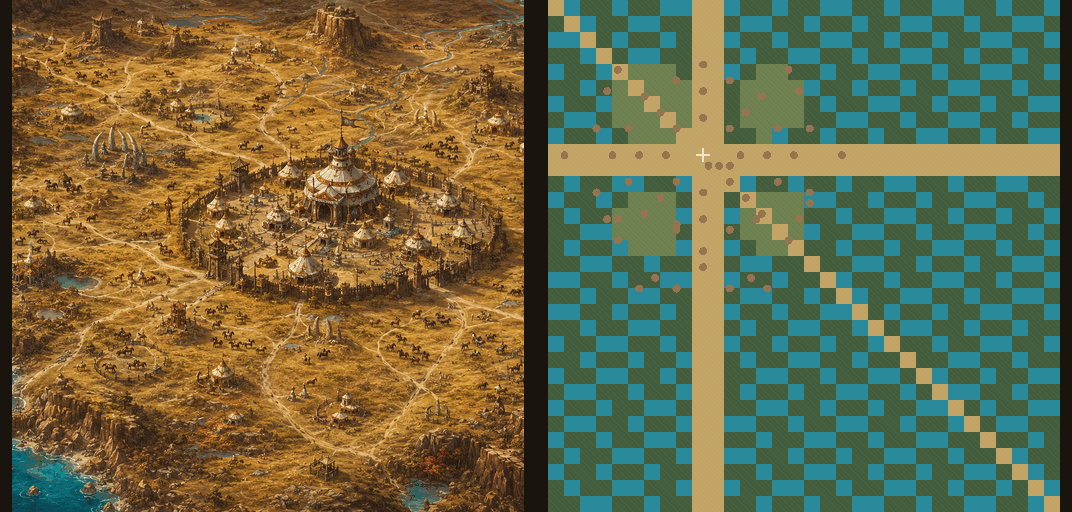
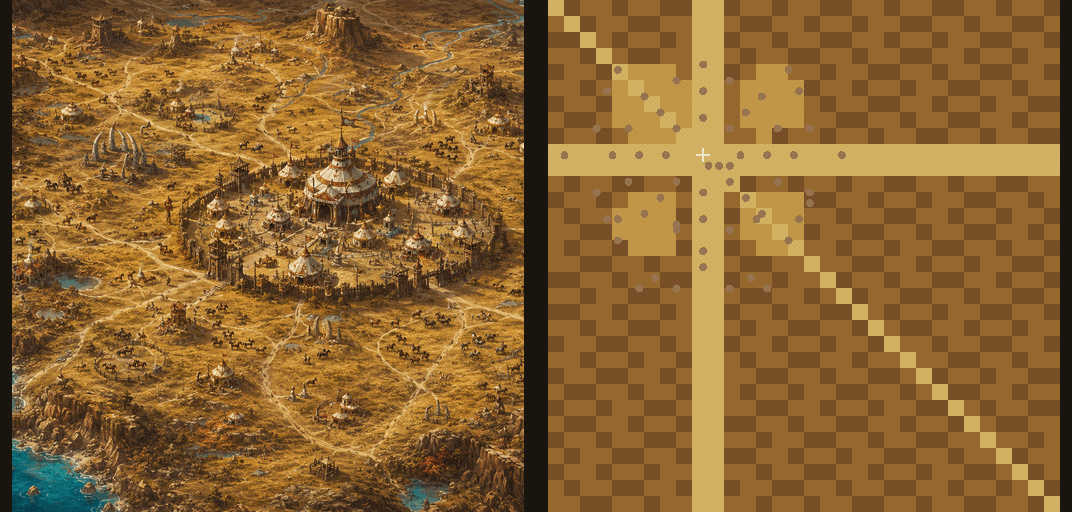
Author the Amberwood regional vertical slice

diff --git a/eloria-assets/tools/generate_nymara_complete.py b/eloria-assets/tools/generate_nymara_complete.py
@@ -272,6 +272,21 @@ def sunmane_height(x,y):
  return max(8,min(24,11+mesa+rolling+
                    region_noise('sunmane_steppe',x//8,y//8)//9))
 
+def amberwood_tile(x,y):
+ cx=cy=58/6
+ estate=math.hypot((x-cx)*1.1,(y-cy)*.9)<3.7
+ road=abs(x-cx)<.65 or abs(y-cy)<.65 or abs((x-cx)+(y-cy))<.58
+ old_growth=((x*7+y*5)%13)<6 or min(x,y,31-x,31-y)<4
+ return 2 if road else 0 if estate else 3 if old_growth else 1
+
+def amberwood_height(x,y):
+ if abs(x-58)<=4 or abs(y-58)<=3: return 11
+ edge=min(x,y,191-x,191-y)
+ wooded_rise=max(0,(38-edge)//8)
+ ridge=max(0,(y-110)//20)
+ return max(8,min(25,11+wooded_rise+ridge+
+                   region_noise('amberwood',x//7,y//7)//9))
+
 def four_gates_terrain_pixel(kind):
  def pixel(x,y):
   grain=((x*17+y*29+(x^y)*5)%23)-11
@@ -489,6 +504,27 @@ def sunmane_placements():
   p.append(("3dobjects/nymara/sunmane_animal_pen.e3d",x,y,0,r))
  for j,(x,y) in enumerate(((18,48),(98,48),(18,72),(98,72),(34,108),(82,108))):
   p.append(("3dobjects/nymara/sunmane_burial_mound.e3d",x,y,0,j*60))
+ return p
+
+def amberwood_placements():
+ p=[]
+ p.append(("3dobjects/nymara/amberwood_estate.e3d",58,42,0,180))
+ for j,(x,y) in enumerate(((34,34),(82,34),(28,64),(88,64),(38,94),(78,94))):
+  p.append(("3dobjects/nymara/amberwood_hunting_lodge.e3d",x,y,0,j*60))
+ for j,(x,y) in enumerate(((24,24),(92,24),(20,52),(96,52),(24,84),(92,84),
+                            (34,108),(82,108))):
+  p.append(("3dobjects/nymara/amberwood_hollow_tree.e3d",x,y,0,j*43))
+ for j,(x,y,r) in enumerate(((58,30,90),(30,58,0),(86,58,0),(58,88,90))):
+  p.append(("3dobjects/nymara/amberwood_old_bridge.e3d",x,y,0,r))
+ for j,(x,y) in enumerate(((30,30),(46,26),(70,26),(86,30),(22,42),(94,42),
+                            (22,74),(94,74),(30,98),(46,106),(70,106),(86,98),
+                            (38,50),(78,50),(38,78),(78,78))):
+  p.append(("3dobjects/nymara/amberwood_tree.e3d",x,y,0,j*29))
+ for j,(x,y,r) in enumerate(((42,38,45),(74,38,315),(34,72,90),(82,72,270),
+                              (46,96,30),(70,96,330))):
+  p.append(("3dobjects/nymara/amberwood_ruin_arch.e3d",x,y,0,r))
+ for j,(x,y) in enumerate(((48,48),(68,48),(48,68),(68,68))):
+  p.append(("3dobjects/nymara/amberwood_garden_fountain.e3d",x,y,0,j*90))
  return p
 
 def drowned_crown_placements():
@@ -808,6 +844,8 @@ def generate_maps(root):
    placements=amethyst_placements()
   elif name == 'sunmane_steppe':
    placements=sunmane_placements()
+  elif name == 'amberwood':
+   placements=amberwood_placements()
   elif name in REGIONS:
    authored=profile['objects']
    rings=((30,30),(58,28),(86,30),(28,58),(88,58),(30,86),(58,88),(86,86),
@@ -879,6 +917,9 @@ def generate_maps(root):
   elif name=='sunmane_steppe':
    lights += [(x,y,3.2,1.00,.58,.24) for x,y in
               ((48,48),(68,48),(48,68),(68,68),(58,34),(82,58),(58,82),(34,58))]
+  elif name=='amberwood':
+   lights += [(x,y,3.0,.96,.42,.16) for x,y in
+              ((58,42),(48,48),(68,48),(48,68),(68,68),(34,34),(82,34),(58,88))]
   elif name=='drowned_crown':
    lights += [(x,y,2.7,.24,.70,.78) for x,y in
               ((34,34),(58,34),(82,34),(34,58),(82,58),(34,82),(58,82),(82,82))]
@@ -900,9 +941,9 @@ def generate_maps(root):
   elif name=='manymouth_flooded_labyrinth':
    lights += [(x,y,2.6,.24,.58,.48) for x,y in
               ((34,34),(58,34),(82,34),(34,58),(82,58),(34,82),(58,82),(82,82))]
-  tile_function=(four_gates_tile if name=='four_gates' else mirrorhold_tile if name=='mirrorhold' else crownwater_tile if name=='crownwater' else whitehorn_tile if name=='whitehorn_range' else amethyst_tile if name=='amethyst_barrens' else sunmane_tile if name=='sunmane_steppe'
+  tile_function=(four_gates_tile if name=='four_gates' else mirrorhold_tile if name=='mirrorhold' else crownwater_tile if name=='crownwater' else whitehorn_tile if name=='whitehorn_range' else amethyst_tile if name=='amethyst_barrens' else sunmane_tile if name=='sunmane_steppe' else amberwood_tile if name=='amberwood'
                  else lambda x,y,p=profile,n=name:region_tile(p,n,x,y))
-  height_function=(four_gates_height if name=='four_gates' else mirrorhold_height if name=='mirrorhold' else crownwater_height if name=='crownwater' else whitehorn_height if name=='whitehorn_range' else amethyst_height if name=='amethyst_barrens' else sunmane_height if name=='sunmane_steppe'
+  height_function=(four_gates_height if name=='four_gates' else mirrorhold_height if name=='mirrorhold' else crownwater_height if name=='crownwater' else whitehorn_height if name=='whitehorn_range' else amethyst_height if name=='amethyst_barrens' else sunmane_height if name=='sunmane_steppe' else amberwood_height if name=='amberwood'
                    else lambda x,y,p=profile,n=name:region_height(p,n,x,y))
   make_map(root/f"maps/nymara/{name}.elm",width=32,height=32,placements=placements,
    ambient=profile['ambient'],lights=lights,

diff --git a/eloria-assets/tools/validate_generated_assets.py b/eloria-assets/tools/validate_generated_assets.py
@@ -220,6 +220,27 @@ def validate_maps(root: Path) -> None:
                 raise ValueError("Sunmane Steppe lacks authored scenery or lighting")
             if set(sunmane_tiles) != {0, 1, 2, 3} or len(set(sunmane_heights)) < 8:
                 raise ValueError("Sunmane Steppe lacks camps, roads, grassland, or relief")
+        if path.as_posix().endswith("maps/nymara/amberwood.elm"):
+            amber_tiles = data[tile_offset:height_offset]
+            amber_heights = data[height_offset:height_offset + width * height * 36]
+            required = {
+                "3dobjects/nymara/amberwood_estate.e3d": 1,
+                "3dobjects/nymara/amberwood_hunting_lodge.e3d": 6,
+                "3dobjects/nymara/amberwood_hollow_tree.e3d": 8,
+                "3dobjects/nymara/amberwood_old_bridge.e3d": 4,
+                "3dobjects/nymara/amberwood_tree.e3d": 16,
+                "3dobjects/nymara/amberwood_ruin_arch.e3d": 6,
+                "3dobjects/nymara/amberwood_garden_fountain.e3d": 4,
+            }
+            for landmark, minimum in required.items():
+                if sum(name == landmark for name, *_ in object_records) < minimum:
+                    raise ValueError(f"Amberwood is missing {landmark}")
+            if any(math.hypot(x-58, y-58) < 3.0 for _, x, y, _ in object_records):
+                raise ValueError("Amberwood arrival is obstructed")
+            if obj3_count < 55 or light_count < 12:
+                raise ValueError("Amberwood lacks authored scenery or lighting")
+            if set(amber_tiles) != {0, 1, 2, 3} or len(set(amber_heights)) < 8:
+                raise ValueError("Amberwood lacks estate, roads, old growth, or relief")
         if path.as_posix().endswith("maps/nymara/drowned_crown.elm"):
             required = {
                 "3dobjects/nymara/interiors/crownwater_drowned_floor.e3d": 12,

diff --git a/eloria-assets/tools/render_map_qa.py b/eloria-assets/tools/render_map_qa.py
@@ -20,6 +20,21 @@ COLORS = {
     7: (38, 128, 149),
 }
 
+REGIONAL_COLORS = {
+    "amethyst_barrens": {
+        0: (103, 73, 126), 1: (114, 91, 65),
+        2: (182, 132, 194), 3: (139, 91, 164),
+    },
+    "sunmane_steppe": {
+        0: (193, 151, 72), 1: (150, 105, 48),
+        2: (211, 177, 99), 3: (120, 79, 38),
+    },
+    "amberwood": {
+        0: (151, 91, 39), 1: (115, 71, 34),
+        2: (184, 119, 55), 3: (65, 91, 55),
+    },
+}
+
 
 def main() -> None:
     parser = argparse.ArgumentParser()
@@ -38,11 +53,12 @@ def main() -> None:
         name = struct.unpack_from("<80s", data, offset)[0].split(b"\0", 1)[0].decode()
         x, y = struct.unpack_from("<2f", data, offset + 80)
         objects.append((name, x / (width * 6) * 512, y / (height * 6) * 512))
+    colors = REGIONAL_COLORS.get(args.map.stem, COLORS)
 
     def pixel(x: int, y: int):
         tile_x = min(width - 1, x * width // 512)
         tile_y = min(height - 1, y * height // 512)
-        base = COLORS.get(tiles[tile_y * width + tile_x], (125, 70, 125))
+        base = colors.get(tiles[tile_y * width + tile_x], (125, 70, 125))
         grain = ((x * 7 + y * 11) % 9) - 4
         color = tuple(max(0, min(255, channel + grain)) for channel in base)
         for name, object_x, object_y in objects:

diff --git a/eloria-assets/qa/regions/amberwood/README.md b/eloria-assets/qa/regions/amberwood/README.md
@@ -1,0 +1,23 @@
+# Amberwood regional QA
+
+Amberwood now follows the concept's dense autumn estate forest. The noble
+estate anchors the northern grove, while hunting lodges, hollow old-growth
+trees, bridges, ruin arches, garden fountains, and a wooded perimeter create
+layered paths through the inhabited and overgrown districts.
+
+The layout includes one estate, six hunting lodges, eight hollow trees, four
+old bridges, sixteen forest trees, six ruin arches, and four garden fountains.
+Eight warm landmark lights supplement the four transition lights. Dedicated
+terrain separates the estate grounds, forest floor, paths, and old-growth belt
+while preserving the clear `(58,58)` arrival datum.
+
+```sh
+python3 eloria-assets/tools/generate_all_assets.py build/eloria-data
+python3 eloria-assets/tools/validate_generated_assets.py build/eloria-data
+```
+
+Validation asserts exact landmark counts, dependency resolution, scenery and
+lighting density, all four terrain classes, elevation variation, and arrival
+clearance. The regional QA renderer now uses map-specific palettes so forest
+and grass terrain classes are not misrepresented as water. Shaded client and
+map-editor captures remain pending a GPU-capable session.
